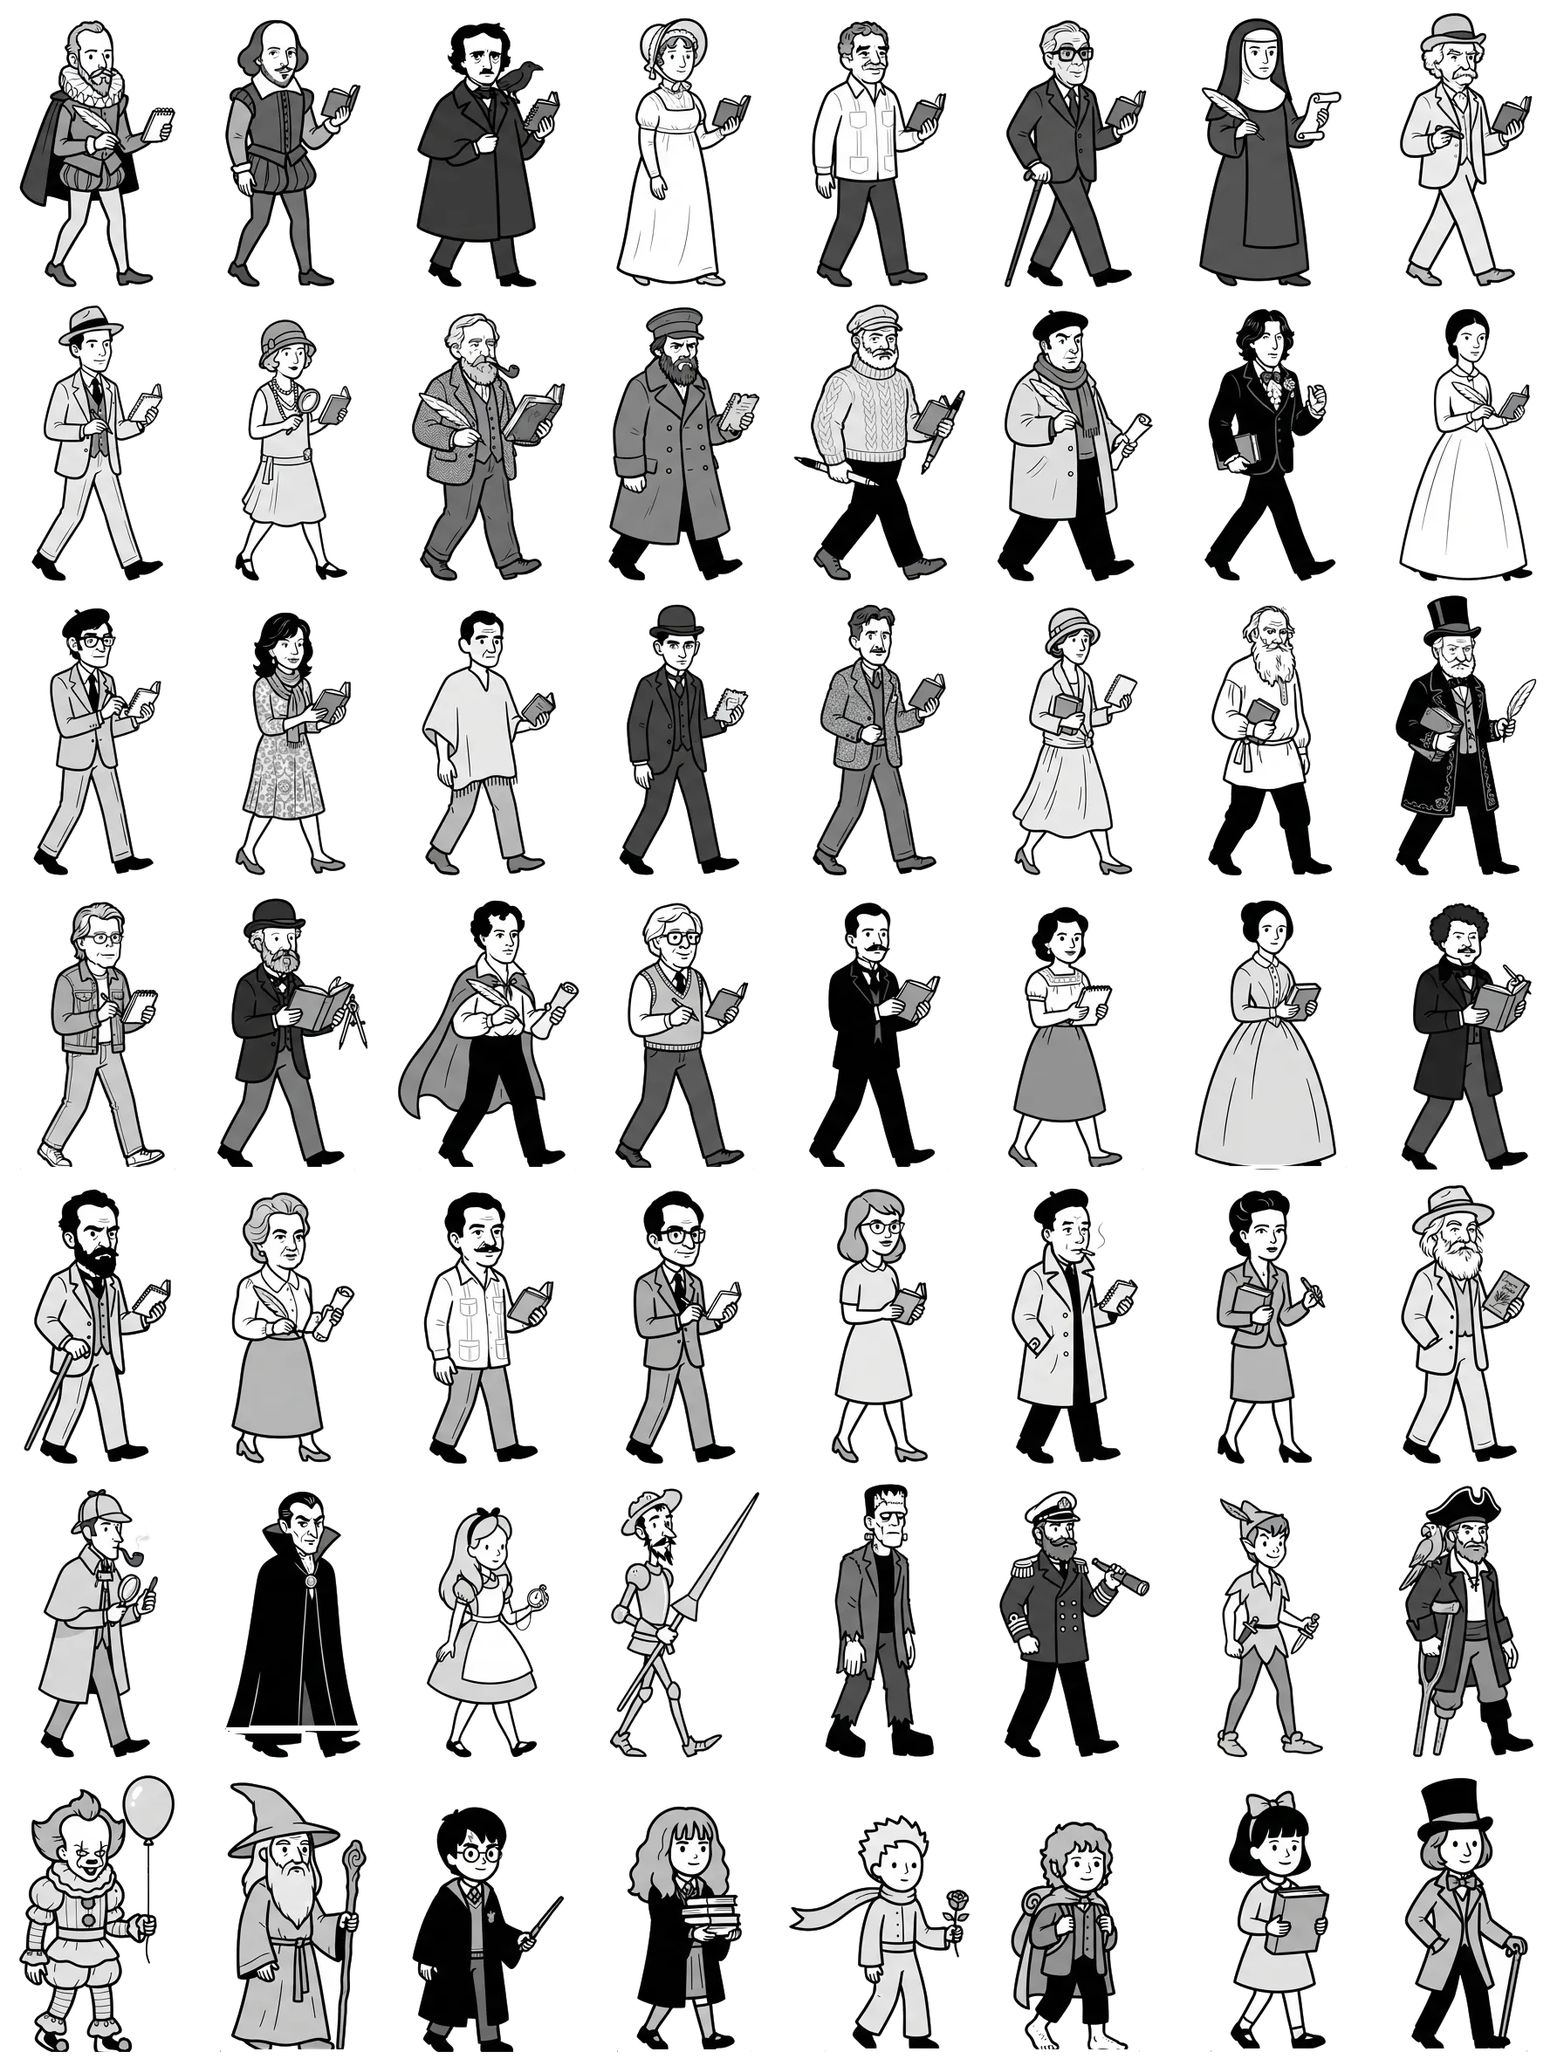
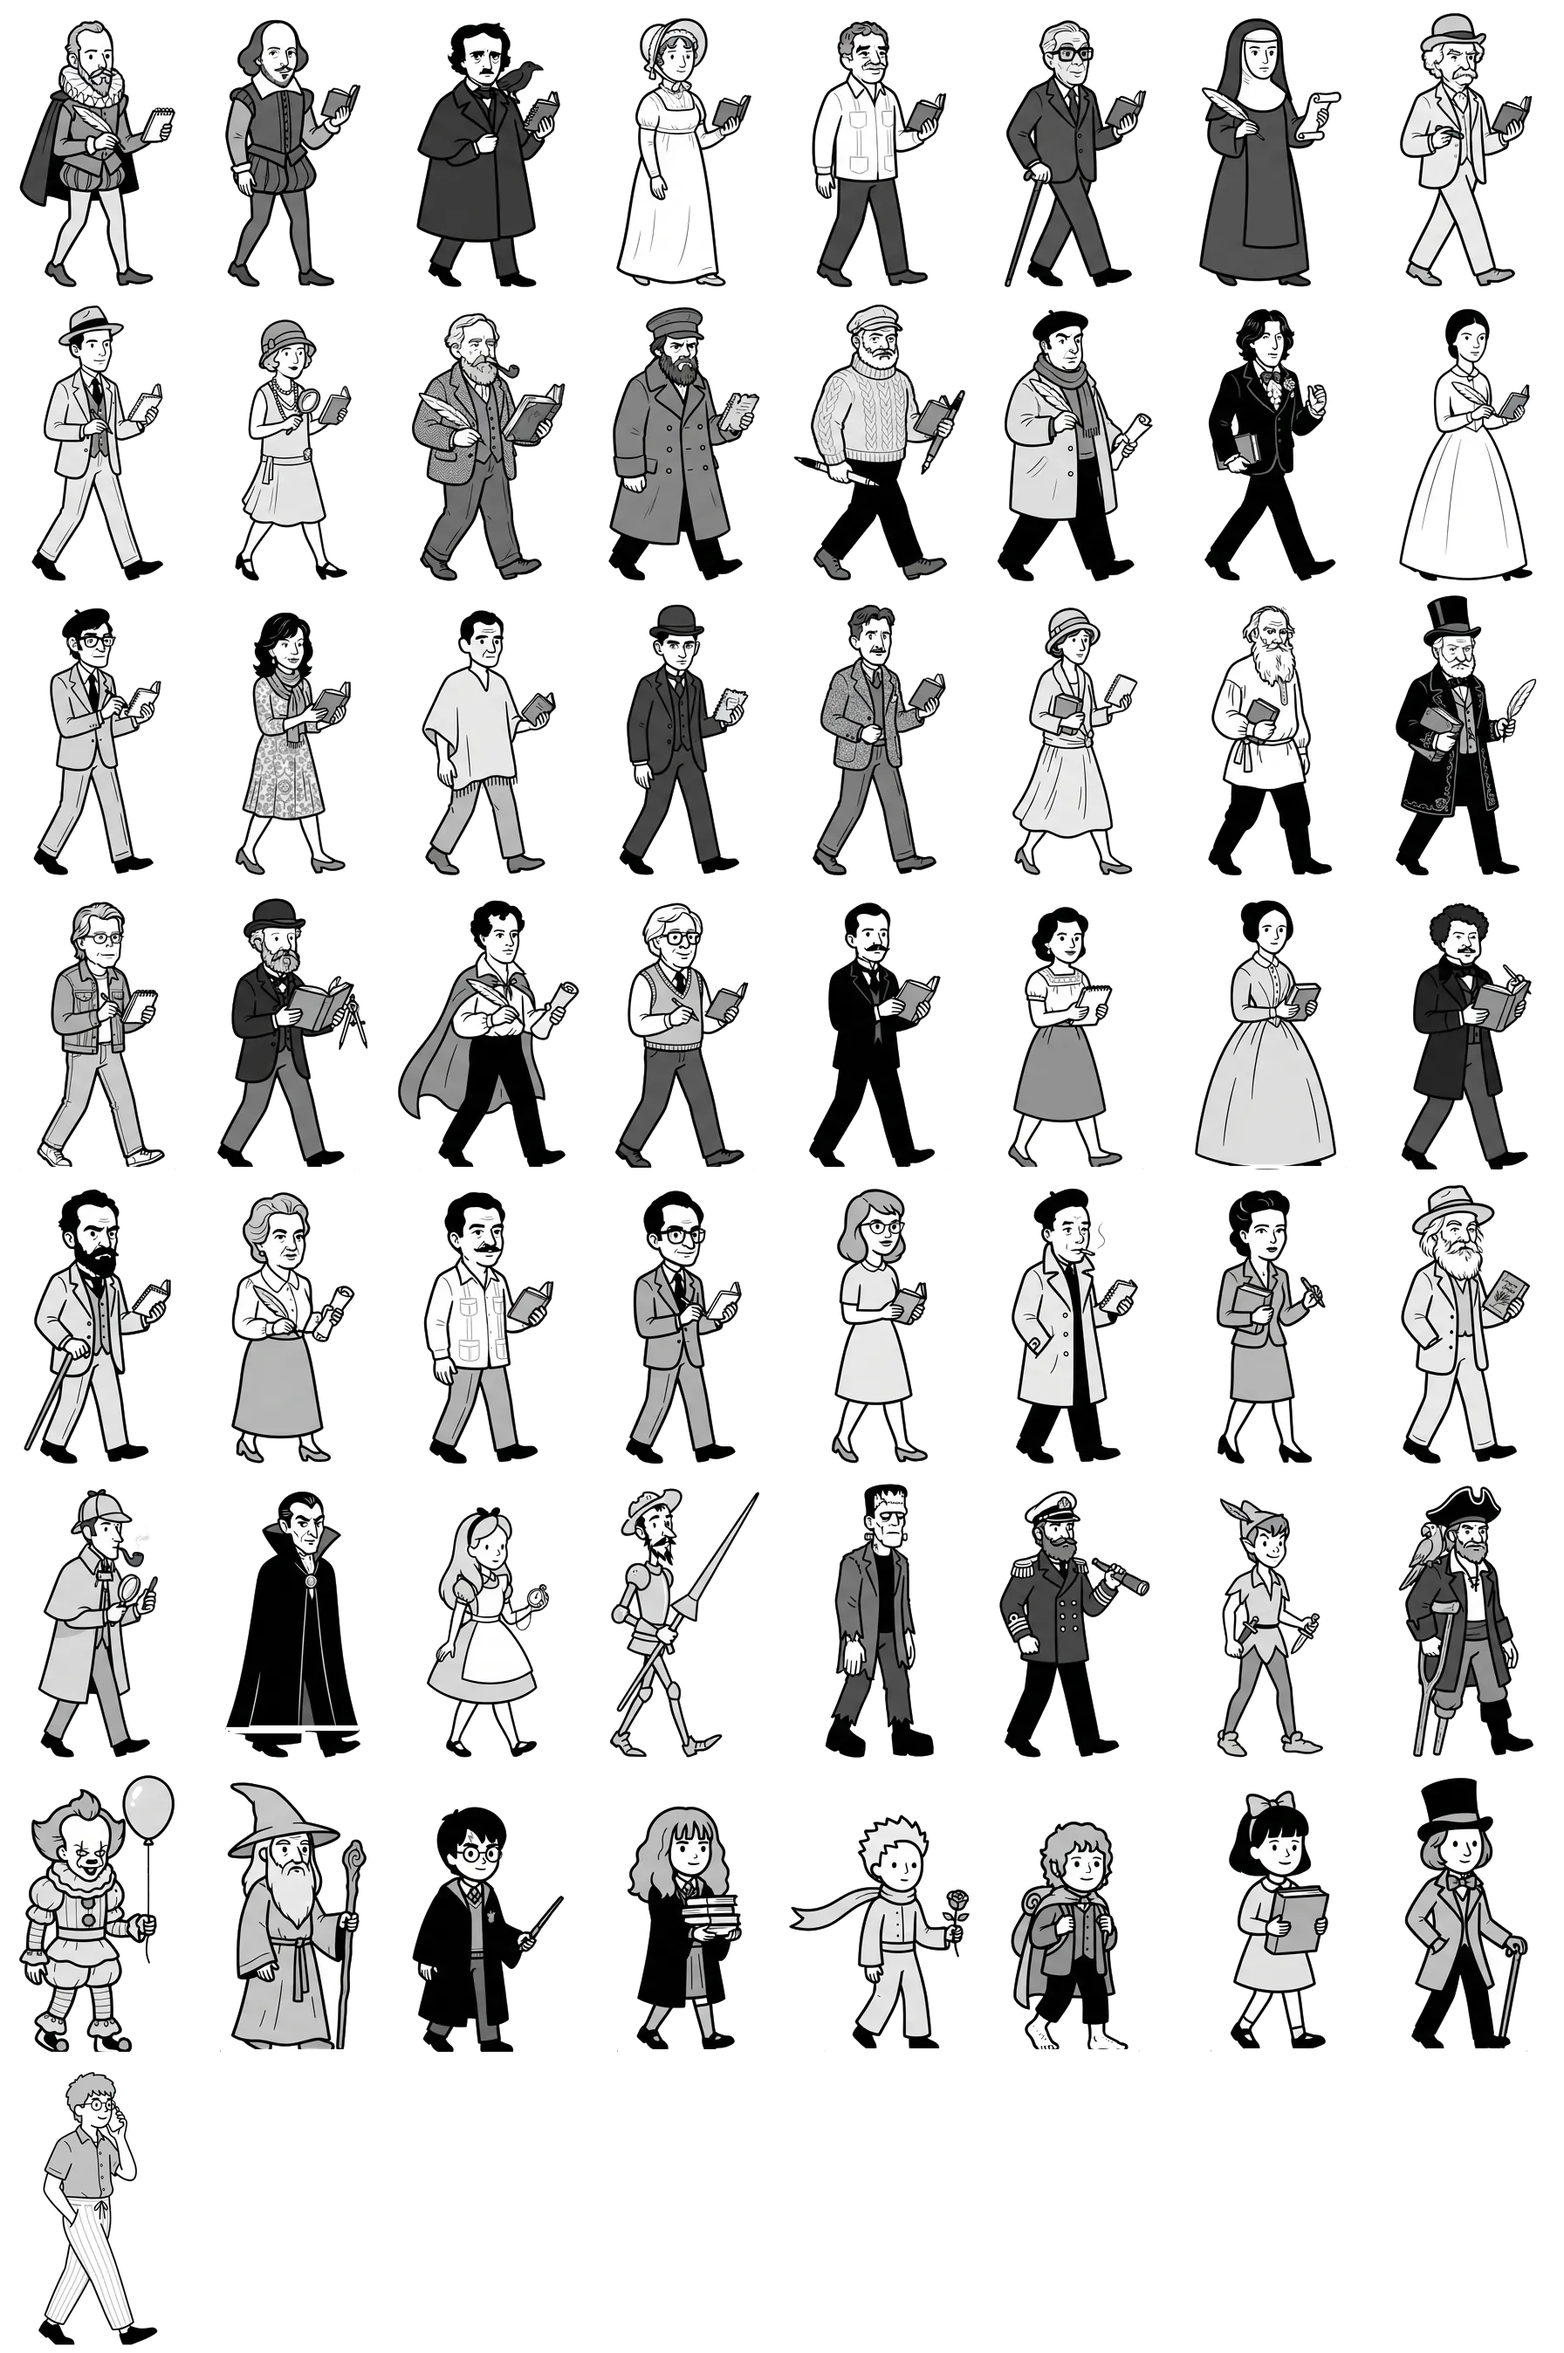
feat(frontend): agregar personaje suelto (yo.jpg) a la hoja de la landing
Hoja de 57 personajes (8x8); la landing muestra los 57 a la vez.

diff --git a/apps/frontend/src/app/features/landing/landing.page.ts b/apps/frontend/src/app/features/landing/landing.page.ts
@@ -3,7 +3,7 @@ import { Router } from '@angular/router';
 import { LogoComponent } from '../../shared/logo/logo.component';
 import { CrowdCanvasComponent } from '../../shared/crowd-canvas/crowd-canvas.component';
 
-// Hoja de sprites (public/hoja-personajes.webp): 8 columnas x 7 filas de escritores, fondo transparente (fuentes en design/personajes).
+// Hoja de sprites (public/hoja-personajes.webp): 8 columnas x 8 filas de escritores y personajes, fondo transparente (fuentes en design/personajes).
 const HOJA_PERSONAJES = '/hoja-personajes.webp';
 
 @Component({
@@ -22,7 +22,7 @@ const HOJA_PERSONAJES = '/hoja-personajes.webp';
         <a href="/inicio" class="btn-primary" (click)="entrar($event)">Comencemos nuestra aventura</a>
       </section>
 
-      <app-crowd-canvas [src]="hoja" [columnas]="8" [filas]="7" [personas]="52" [lentitud]="2.2" [altoPct]="62" [escala]="0.92" [profundidad]="70" [bajada]="35" />
+      <app-crowd-canvas [src]="hoja" [columnas]="8" [filas]="8" [personas]="57" [lentitud]="2.2" [altoPct]="62" [escala]="0.92" [profundidad]="70" [bajada]="35" />
       </div>
 
       <footer class="landing__pie">
